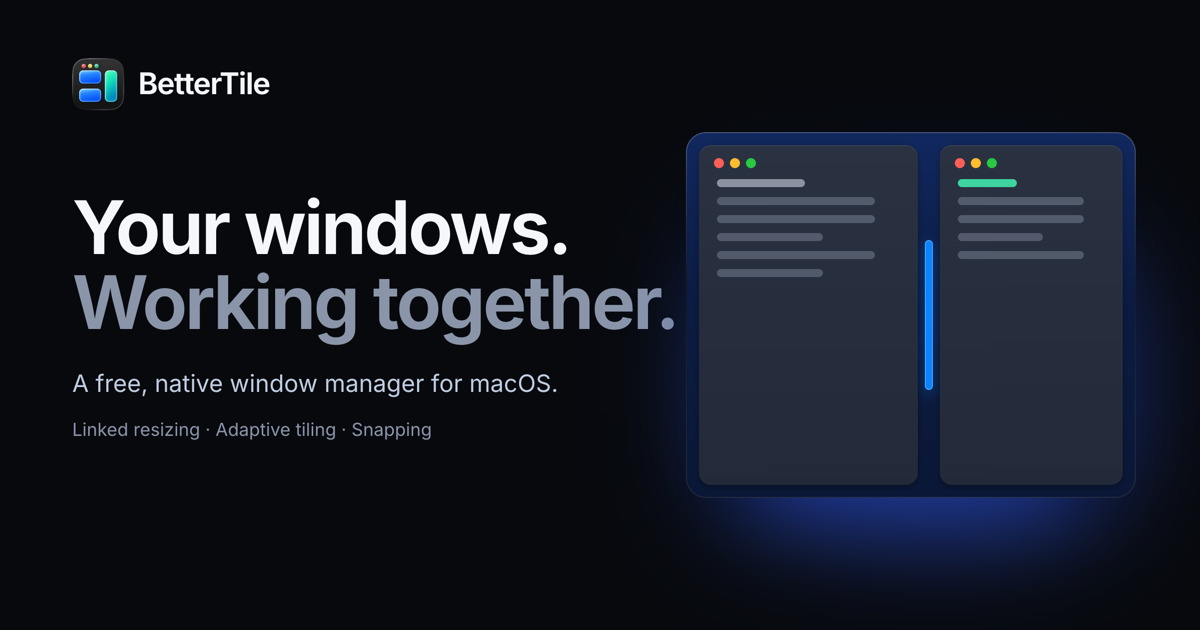
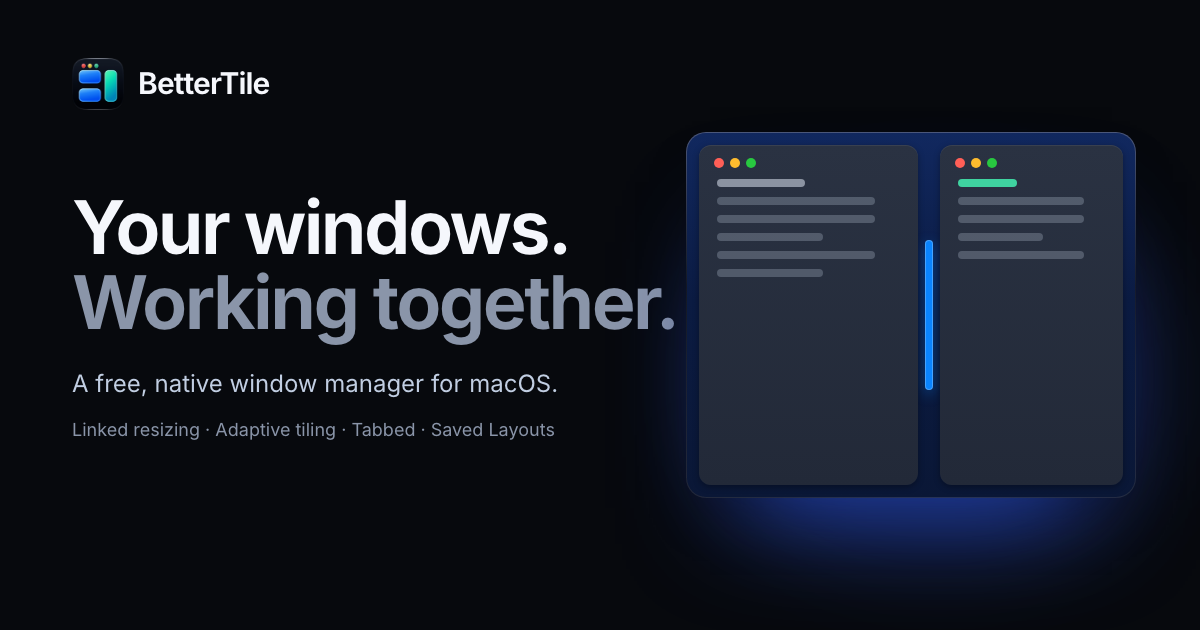
Refresh the link preview image and research note terms for 0.6.0
The social preview PNG still showed the old icon and listed only linked
resizing, Adaptive tiling and snapping. It is re-rendered from
social-preview.html with the installed 0.6.0 icon and now lists Tabbed and
Saved Layouts. The dated research notes now use the current terms Adaptive
and Resize Preview, with a dated note that the findings are unchanged.

diff --git a/social-preview.html b/social-preview.html
@@ -33,7 +33,7 @@ html,body{margin:0;width:1200px;height:630px;overflow:hidden;background:#07090d}
   <div class="copy">
     <h1>Your windows.<br><span>Working together.</span></h1>
     <p>A free, native window manager for macOS.</p>
-    <small>Linked resizing · Adaptive tiling · Snapping</small>
+    <small>Linked resizing · Adaptive tiling · Tabbed · Saved Layouts</small>
   </div>
   <div class="desk"><div class="panes">
     <div class="mini-win"><span class="mini-bar"><i></i><i></i><i></i></span><b></b><b></b><b></b><b class="short"></b><b></b><b class="short"></b></div>

diff --git a/research/category.md b/research/category.md
@@ -1,21 +1,23 @@
 # BetterTile category research
 
+> Terms updated 2026-11-04: Bento is now **Adaptive** and the ghost preview is now **Resize Preview**, as in BetterTile 0.6.0. The findings are unchanged from the dated research.
+
 Checked **2026-10-03, America/Phoenix** (browser logs use 2026-10-04 UTC). Research only; no competitor apps installed or runtime performance tested. All product claims below come from the product's own site, documentation, repository, or developer-supplied App Store listing. Visual observations are separate from strategic interpretation.
 
 ## Decision for the website
 
-Lead with coordinated windows: a shared boundary that visitors can move. Then explain adaptive Bento and familiar placement controls. Free and open source reinforce straightforward ownership; they do not distinguish BetterTile on their own. Rectangle, Loop, AeroSpace, and Amethyst also have free open-source offerings.
+Lead with coordinated windows: a shared boundary that visitors can move. Then explain Adaptive tiling and familiar placement controls. Free and open source reinforce straightforward ownership; they do not distinguish BetterTile on their own. Rectangle, Loop, AeroSpace, and Amethyst also have free open-source offerings.
 
 Do **not** claim exclusive adjacent-window resizing. Rectangle Pro documents it explicitly. Do not turn absence from a feature page into a red cross in a comparison. Moom's documented saved layouts are different from adaptive tiling, but this review does not prove that every form of coordinated resizing is absent.
 
-Recommended positioning (creative recommendation): **For Mac users working across several windows, BetterTile keeps the workspace aligned as their work changes. Direct linked resizing, adaptive Bento, and familiar Mac controls reduce repeated window arranging. The brand should feel calm, capable, and easy to understand.**
+Recommended positioning (creative recommendation): **For Mac users working across several windows, BetterTile keeps the workspace aligned as their work changes. Direct linked resizing, Adaptive tiling, and familiar Mac controls reduce repeated window arranging. The brand should feel calm, capable, and easy to understand.**
 
 ## BetterTile facts checked locally
 
 Read `README.md`, `CONTEXT.md`, and `SECURITY.md` in checkout `d5c5ef5` on `docs/brand-category-research`. `Package.swift` specifies `.macOS(.v26)`; both app build configurations specify `MACOSX_DEPLOYMENT_TARGET = 26.0`.
 
-- Linked resizing operates on actual adjacent window boundaries. Ghost preview commits on release; live resizing updates during movement.
-- Bento scores candidate splits to reduce movement/resizing as windows enter, and adopts native pane resizing.
+- Linked resizing operates on actual adjacent window boundaries. Resize Preview commits on release; Live Resize updates during movement.
+- Adaptive scores candidate splits to reduce movement/resizing as windows enter, and adopts native pane resizing.
 - Tabbed groups windows in resizable panes. It is BetterTile-drawn tab UI, not native app tabbing. Stage Manager must be off. Assignments last for the app session; cross-display tab dragging is unavailable.
 - Layout Wheel uses configured modifiers, optionally middle click. Default modifiers: Control + Option + Shift. Keyboard placement and bounded per-window placement undo are supported.
 - Free forever, GPL v3 or later, no paid tier, advertising, behavioral tracking, or data sale.
@@ -32,7 +34,7 @@ Sources: [README](https://github.com/LMC-Karma/BetterTile/blob/main/README.md), 
 
 **Promise and name:** literal geometry name; free Rectangle centers on keyboard shortcuts and edge snapping. Pro presents faster placement and deeper customization. Free Rectangle supports macOS 10.15+, Intel/Apple Silicon. Live browser displayed **US$9.99** for Pro and a 10-day trial; Pro supports macOS 13.5+. [Rectangle](https://rectangleapp.com/), [Pro](https://rectangleapp.com/pro/).
 
-**Relevant behavior:** Pro can resize adjacent windows after a dragged edge is released. Saved layouts can run on display changes, wake, or a window opening; this is verified automation, not evidence of Bento-style candidate-scored layout adaptation. [General settings](https://rectangleapp.com/pro/docs/general/), [layouts](https://rectangleapp.com/pro/docs/layouts/).
+**Relevant behavior:** Pro can resize adjacent windows after a dragged edge is released. Saved layouts can run on display changes, wake, or a window opening; this is verified automation, not evidence of Adaptive-style candidate-scored layout adaptation. [General settings](https://rectangleapp.com/pro/docs/general/), [layouts](https://rectangleapp.com/pro/docs/layouts/).
 
 **Observed identity/site:** white opening, thin large sans-serif name, centered app icon, outlined download button. Icon: dark rounded square with a blue upright window occupying its right half; three small title-bar dots. Pro changes the foreground window to green. Subsequent sections show shortcuts and snap-area illustrations. At 375 px the icon and CTA stack at large scale. Simple silhouette; small dots and material effects are secondary. The full icon supplies the website identity, not a separate elaborate wordmark.
 
@@ -104,7 +106,7 @@ Use a fit-oriented comparison, not a scoreboard. These four rows distinguish int
 
 | Product | Strong fit | Coordinated behavior verified | Ownership / download context |
 | --- | --- | --- | --- |
-| BetterTile | A visible shared boundary plus adaptive Bento and Tabbed panes | Direct seam drag; ghost or live resizing; Bento changes as windows enter | Free, GPL v3 or later; macOS 26+ beta; self-signed, not notarized |
+| BetterTile | A visible shared boundary plus Adaptive tiling and Tabbed panes | Direct seam drag; Resize Preview or Live Resize; Adaptive changes as windows enter | Free, GPL v3 or later; macOS 26+ beta; self-signed, not notarized |
 | Rectangle Pro | Custom placement commands and saved workspaces | Adjacent windows adjust on release after edge dragging; layouts can run when a window opens | US$9.99 displayed; 10-day trial; free Rectangle also exists |
 | Moom | Reusable arrangements and a configurable palette | Saved multi-window arrangements, including recent-window layouts; shared seam not verified | $15 displayed; perpetual license, at least one year updates; trial |
 | AeroSpace | Keyboard/CLI-driven tiling and virtual workspaces | Tree layouts with resize/balance commands; pointer seam not tested | Free MIT source; configuration-oriented workflow |

diff --git a/research/naming.md b/research/naming.md
@@ -1,5 +1,7 @@
 # BetterTile naming investigation
 
+> Terms updated 2026-11-04: Bento is now **Adaptive** and the ghost preview is now **Resize Preview**, as in BetterTile 0.6.0. The findings are unchanged from the dated research.
+
 Checked **2026-10-03, America/Phoenix**. Some services display 2026-10-04 because their records use UTC. This is a preliminary brand screen, not a trademark opinion or an availability guarantee. Findings describe the public records visible on that date.
 
 ## Recommendation
@@ -21,7 +23,7 @@ The three rename finalists below are **explorations for a separate brand preview
 | Pronunciation and spelling | Strong. **BET-er tyle**; two familiar English words. |
 | Searchability | Moderate to weak without “Mac.” Exact-name software reuse exists in a Unity editor tool; ordinary “better tile” searches also have building-material meanings. |
 | Visual potential | Strong enough. A shared-boundary symbol can describe the product independently of its initials. The selected identity avoids a three-pane B because Magnet already uses that arrangement. |
-| Fit with the experience | Good for snapping and Bento. Less explicit about linked resizing or Tabbed, which the product description and motion must establish. |
+| Fit with the experience | Good for snapping and Adaptive tiling. Less explicit about linked resizing or Tabbed, which the product description and motion must establish. |
 | Cost of changing | A rename would add migration work across app identity, documentation, releases, and existing links. No official rename is included in this project. |
 
 An exact GitHub repository-name query returned seven results, including this product, its website repositories, a [Unity editor tool named BetterTile](https://github.com/zlitzdev/BetterTile), and other tile-related code. The Unity use is an **observed software name conflict**, not a finding of trademark infringement. The existing [LMC-Karma/BetterTile repository](https://github.com/LMC-Karma/BetterTile) remains the authoritative destination for this app. [GitHub query](https://api.github.com/search/repositories?q=bettertile%20in%3Aname)
@@ -51,7 +53,7 @@ Do not publish rejected candidates as potential replacements. Their value is sho
 
 **Meaning and pronunciation:** PANE-hay-vən. A compound of *pane* and *haven*. This is a proposed brand interpretation, not an assertion that the word is unused.
 
-**Connection:** Emphasizes the intended feeling: an organized desktop that gives attention back to the work. The pane component keeps a useful link to Bento and Tabbed.
+**Connection:** Emphasizes the intended feeling: an organized desktop that gives attention back to the work. The pane component keeps a useful link to Adaptive and Tabbed.
 
 **Strengths:** Easy to say; the two parts are familiar; the promise is calm and approachable. “Make room for your work” fits naturally beneath it.
 
@@ -71,7 +73,7 @@ Do not publish rejected candidates as potential replacements. Their value is sho
 
 **Meaning and pronunciation:** tess-OON. A proposed coined blend of *tessellation* and *attune*. It suggests a layout made of fitted parts that adjusts as the work changes. No foreign-language meaning is being claimed.
 
-**Connection:** Supports adaptive Bento and linked movement without restricting the brand to snapping alone.
+**Connection:** Supports Adaptive tiling and linked movement without restricting the brand to snapping alone.
 
 **Strengths:** Short; visually compact; can carry a distinctive symbol independent of a literal window outline. More flexible than a descriptive pane compound.
 
@@ -151,7 +153,7 @@ The TMview interface itself states that it is not an official register and that 
 
 ## Research method and reuse notes
 
-- Source-of-truth product reading: repository `README.md` and `CONTEXT.md`. The name rationale uses linked resizing, Bento, Tabbed, and Layout Wheel as documented concepts. It does not imply cloud sync, artificial intelligence, cross-device input, or Apple affiliation.
+- Source-of-truth product reading: repository `README.md` and `CONTEXT.md`. The name rationale uses linked resizing, Adaptive, Tabbed, and Layout Wheel as documented concepts. It does not imply cloud sync, artificial intelligence, cross-device input, or Apple affiliation.
 - Public web exact-name searches and spelling variants were followed to first-party websites, repositories, store listings, or official records where available.
 - Store checks were search-engine queries scoped to `apps.apple.com`, `apps.microsoft.com`, `sourceforge.net`, and `producthunt.com`. They were not exhaustive queries of every national storefront.
 - GitHub checks used public `users/{name}` and repository search endpoints. Repository search is substring/token matching, so result counts are screening context, not counts of exact competing brands.

diff --git a/research/summary.md b/research/summary.md
@@ -1,12 +1,14 @@
 # Research and positioning
 
+> Terms updated 2026-11-04: Bento is now **Adaptive** and the ghost preview is now **Resize Preview**, as in BetterTile 0.6.0. The findings are unchanged from the dated research.
+
 Checked **3 October 2026, America/Phoenix**. Browser timestamps may show 4 October UTC. Product facts are drawn from primary sources. Design judgments below are creative recommendations, not measured outcomes.
 
 ## Recommendation
 
-Keep **BetterTile**. Lead with a visible shared boundary, then adaptive Bento and Tabbed. Free ownership is reassurance, not a unique category claim. Rectangle, Loop, AeroSpace, and Amethyst also offer free open-source software. Rectangle Pro documents adjacent resizing on release and saved-layout automation. BetterTile can confidently demonstrate its direct seam, live/ghost choice, and adaptive layout behavior without saying it is first or exclusive.
+Keep **BetterTile**. Lead with a visible shared boundary, then Adaptive tiling and Tabbed. Free ownership is reassurance, not a unique category claim. Rectangle, Loop, AeroSpace, and Amethyst also offer free open-source software. Rectangle Pro documents adjacent resizing on release and saved-layout automation. BetterTile can confidently demonstrate its direct seam, Live Resize or Resize Preview choice, and adaptive layout behavior without saying it is first or exclusive.
 
-**Positioning:** For Mac users working across several windows, BetterTile keeps the workspace aligned as work changes. Direct linked resizing, adaptive Bento, and familiar placement controls reduce repeated arranging. The experience should feel precise, calm, capable, and approachable.
+**Positioning:** For Mac users working across several windows, BetterTile keeps the workspace aligned as work changes. Direct linked resizing, Adaptive tiling, and familiar placement controls reduce repeated arranging. The experience should feel precise, calm, capable, and approachable.
 
 Sources and detailed competitive evidence: [category report](category.md). Naming screen, 12 candidates, finalists and limitations: [naming report](naming.md).
 

diff --git a/VALIDATION.md b/VALIDATION.md
@@ -25,4 +25,6 @@ No Swift tests or Xcode build ran because native code and resources were unchang
 
 ## App icon (2026-11-04)
 
-The Dark icon exports `assets/identity/app-icon-native-dark-{32,64,128,256,512,1024}.png` now come from the icon macOS draws for the installed release 0.6.0 (NSWorkspace icon of `/Applications/BetterTile.app`, cropped to its 824 px body and resized). The previous exports came from an older Ice Dark preview with a grey body. The Light exports, the favicon and the social preview image are unchanged. `npm run build` passed after the change; the browser checks were not re-run for this icon-only change.
+The Dark icon exports `assets/identity/app-icon-native-dark-{32,64,128,256,512,1024}.png` now come from the icon macOS draws for the installed release 0.6.0 (NSWorkspace icon of `/Applications/BetterTile.app`, cropped to its 824 px body and resized). The previous exports came from an older Ice Dark preview with a grey body. The Light exports and the favicon are unchanged. `assets/identity/social-preview.png` was re-rendered from `social-preview.html` at 1200 × 630 (headless Chrome 149, 1x) with the new icon and the feature line "Linked resizing · Adaptive tiling · Tabbed · Saved Layouts". `npm run build` passed after the change; the browser checks were not re-run for this icon-only change.
+
+The dated research notes in `research/` keep their findings; their product terms now read Adaptive and Resize Preview, with a dated note at the top of each file.
